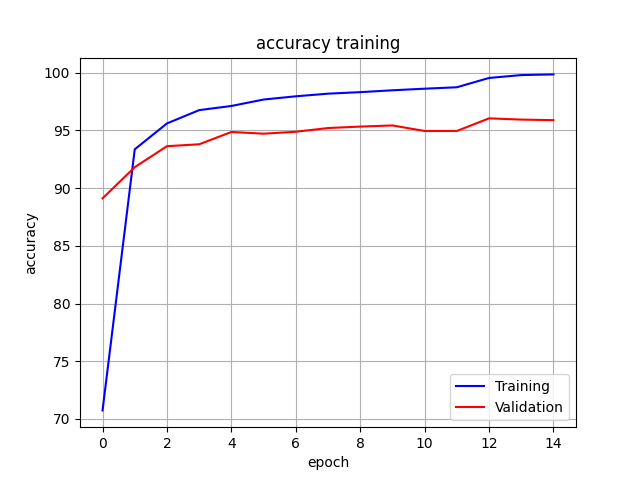
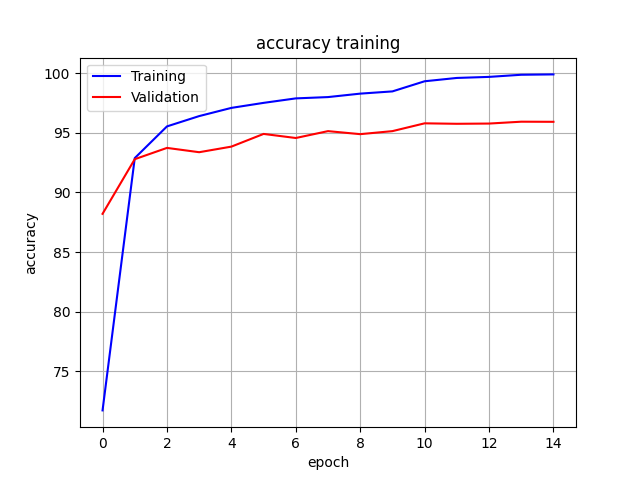
compile model before training

diff --git a/dragonflai/model/neuralNetwork.py b/dragonflai/model/neuralNetwork.py
@@ -62,11 +62,45 @@ class NeuralNetwork(nn.Module):
         self.model_name =  name
         
         
+    def _compile(self, train_loader, test_loader, crit, lr, opts, scheduler, batch_size, epochs, **kwargs):
+        for _, sample in enumerate(train_loader):
+            # get batch 
+            inputs, targets = self.get_batch(sample=sample)
+            _, output = self.loss_calculation(crit, inputs, targets, with_grad=False)
+            self.input_shape = inputs.shape
+            output_shape = output.shape
+            break
+        self.opt       = []
+        self.scheduler = []
+        self.scaler = []
+        self.scaler.append(torch.cuda.amp.GradScaler(enabled=self.use_gpu))
+        try:
+            kwargs_optimizer = kwargs['kwargs_optimizer']
+            self.opt.append(opts(self.architecture.parameters(), lr=lr, **kwargs_optimizer))
+        except:
+            self.opt.append(opts(self.architecture.parameters(), lr=lr))
+        try:
+            kwargs_scheduler = kwargs['kwargs_scheduler']
+            self.scheduler.append(scheduler(self.opt[0], kwargs_scheduler))
+        except:
+            pass 
+            
+        self.printArchitecture(self.input_shape)
         
+        self.init_results(train_loader, test_loader, batch_size, epochs)
+        print('Training model {} during {} epochs with batch size set to {} on {} training data and validating on {} data'
+              .format(self.model_name, self.history.parameters['nb_max_epochs'], 
+                      self.history.parameters['batch_size'], 
+                      self.history.parameters['batch_size'] * self.history.parameters['steps_per_epoch_train'], 
+                      self.history.parameters['batch_size'] * self.history.parameters['steps_per_epoch_val'],
+                      ))
+        print('\ninput_shape {}  ====> {} {} ====> output_shape {}\n'.format(
+            self.input_shape, self.history.modelType, self.history.taskType, output_shape
+            ))
     
     
 
-    def init_results(self, loss_indicators, train_loader, test_loader, batch_size, epochs, *args, **kwargs):
+    def init_results(self, train_loader, test_loader, batch_size, epochs, *args, **kwargs):
         #Use GPU if available
         if self.use_gpu:
             print("CUDA compatible GPU found")
@@ -81,29 +115,6 @@ class NeuralNetwork(nn.Module):
             'steps_per_epoch_val'  : len(test_loader),
             }
         self.history.set_new_parameters(parameters)
-
-    def set_optimizer(self, 
-                      optimizer=torch.optim.AdamW, 
-                      learning_rate=1e-4, 
-                      weight_decay=1e-4, 
-                      *args, **kwargs):
-        '''set optimizer'''
-        self.opt = [None]
-        if weight_decay is None:
-            self.opt[0] = optimizer(self.architecture.parameters(), lr=learning_rate)
-        else:
-            self.opt[0] = optimizer(self.architecture.parameters(), lr=learning_rate, 
-                            weight_decay=weight_decay)
-        
-        self.scaler = [None]
-        self.scaler[0] = torch.cuda.amp.GradScaler(enabled=self.use_gpu)
-        
-    def set_scheduler(self, opt, scheduler=None, *args, **kwargs):
-        '''set scheduler'''
-        self.scheduler = [None]
-        
-        if self.scheduler is not None:
-            self.scheduler[0] = torch.optim.lr_scheduler.ReduceLROnPlateau(self.opt[0], mode='min', factor=0.33, patience=1) 
         
     def update_scheduler(self, *args, **kwargs):
         '''update scheduler'''
@@ -112,7 +123,6 @@ class NeuralNetwork(nn.Module):
             for scheduler in self.scheduler:
                 scheduler.step(loss)
 
-    
     def get_batch(self, *args, **kwargs):
         '''get batch'''
         sample = kwargs['sample']
@@ -198,9 +208,9 @@ class NeuralNetwork(nn.Module):
         # training starting callback 
         self._on_training_start()
         # init results 
-        self.init_results(loss_indicators, train_set, valid_set, batch_size, epochs)
-        self.set_optimizer(optimizer=optimizer, learning_rate=learning_rate, weight_decay=weight_decay)
-        self.set_scheduler(1)
+        #self.init_results(loss_indicators, train_set, valid_set, batch_size, epochs)
+        #self.set_optimizer(optimizer=optimizer, learning_rate=learning_rate, weight_decay=weight_decay)
+        #self.set_scheduler(1)
         
         # iterate throw epochs 
         for _ in range(epochs):
@@ -217,7 +227,7 @@ class NeuralNetwork(nn.Module):
                                                 lr=self.opt[0].param_groups[0]['lr'], 
                                                 acc=self.acc)
             # predict on validation set 
-            val_loss, _, _ = self.predict(valid_set, crit=criterion, loss_indicators=1)
+            val_loss, _, _ = self.predict(valid_set, crit=criterion)
             # update sheduler on validation set 
             self.update_scheduler(loss=val_loss)
             # ending epoch callback 
@@ -228,7 +238,7 @@ class NeuralNetwork(nn.Module):
         return self.history
 
 
-    def predict(self, test_set, crit=nn.L1Loss(), loss_indicators=1):
+    def predict(self, test_set, crit=nn.L1Loss()):
         """Use the trained model to predict a target values on a test set
         
         For now, we assume that the target value is known, so it is possible to calculate an error value.

diff --git a/examples/VIT_MNIST/experiment.py b/examples/VIT_MNIST/experiment.py
@@ -14,13 +14,15 @@ from sklearn.metrics import confusion_matrix, ConfusionMatrixDisplay
 class Experiment():
     def __init__(self, model,
                 train_loader, test_loader, 
-                num_epoch=50,
-                batch_size=32,
-                learning_rate=1e-03,
-                weight_decay=1e-03,    
-                optimizer=torch.optim.Adam,
-                criterion=torch.nn.L1Loss(),
-                nb_workers=0):
+                num_epoch     = 50,
+                batch_size    = 32,
+                learning_rate = 1e-03,
+                weight_decay  = 1e-03,
+                optimizer     = torch.optim.Adam,
+                scheduler     = None,
+                kwargs        = {},
+                criterion     = torch.nn.L1Loss(),
+                nb_workers    = 0):
         #Model parameters  
         self.model         = model
         self.num_epoch     = num_epoch
@@ -28,16 +30,21 @@ class Experiment():
         self.learning_rate = learning_rate
         self.weight_decay  = weight_decay
         self.optimizer     = optimizer
+        self.scheduler     = scheduler
+        self.kwargs        = kwargs
         self.criterion     = criterion
         self.nb_workers    = nb_workers
-        
-        self.train_loader = train_loader
-        self.test_loader  = test_loader
+        self.train_loader  = train_loader
+        self.test_loader   = test_loader
          
     def fit(self):
         """Train the model using the data available in the train and validation folder path.
         """
-
+        self.model._compile(self.train_loader, self.test_loader, 
+                            self.criterion, self.learning_rate, 
+                            self.optimizer, self.scheduler, 
+                            self.batch_size, self.num_epoch, **self.kwargs)
+        
         history = self.model.fit(self.train_loader,
         self.num_epoch, 
         criterion=self.criterion, 

diff --git a/examples/VIT_MNIST/main.py b/examples/VIT_MNIST/main.py
@@ -22,21 +22,28 @@ from dragonflai.model.utils import *
 
 if __name__ == "__main__":
     # parameters 
-    n_channels = 1 
-    embed_dim = 64 
-    n_layers = 8
+    n_channels        = 1
+    embed_dim         = 64
+    n_layers          = 8
     n_attention_heads = 8
-    forward_mul = 2
-    image_size = 32
-    patch_size = 8
-    n_classes = 10
-    batch_size = 256
-    nb_workers = 0
-    num_epoch = 15
-    lr = 1e-3
-    wd = 1e-4
-    optimizer = torch.optim.Adam
-    crit = nn.CrossEntropyLoss()
+    forward_mul       = 2
+    image_size        = 32
+    patch_size        = 8
+    n_classes         = 10
+    batch_size        = 256
+    nb_workers        = 0
+    num_epoch         = 15
+    lr                = 1e-3
+    wd                = 1e-4
+    optimizer         = torch.optim.Adam
+    crit              = nn.CrossEntropyLoss()
+    scheduler         = torch.optim.lr_scheduler.ReduceLROnPlateau
+
+    kwargs_optimizer = {'weight_decay': wd}
+    kwargs_scheduler = {'mode': 'min', 'factor': 0.33, 'patience': 1}
+    kwargs = {'kwargs_scheduler': kwargs_scheduler}
+
+
     input_shape = (batch_size, n_channels, image_size, image_size)
 
     # create transform method 
@@ -78,6 +85,8 @@ if __name__ == "__main__":
                 weight_decay=wd,    
                 optimizer=optimizer, 
                 criterion=crit,
+                scheduler=scheduler, 
+                kwargs=kwargs, 
                 nb_workers=nb_workers)
 
     experiment.model.printArchitecture(input_shape)

diff --git a/setup.py b/setup.py
@@ -1,7 +1,7 @@
 from setuptools import setup, find_packages
 
 setup(name="dragonflai",
-      version="0.8.4",
+      version="0.8.5",
       description="LR Technologies template for articial intelligence related projects",
       author="Adrien Dorise, Edouard Villain, Julia Cohen, Boris Lenseigne",
       author_email="{adorise, evillain, jcohen, blenseigne}@lrtechnologies.fr",
